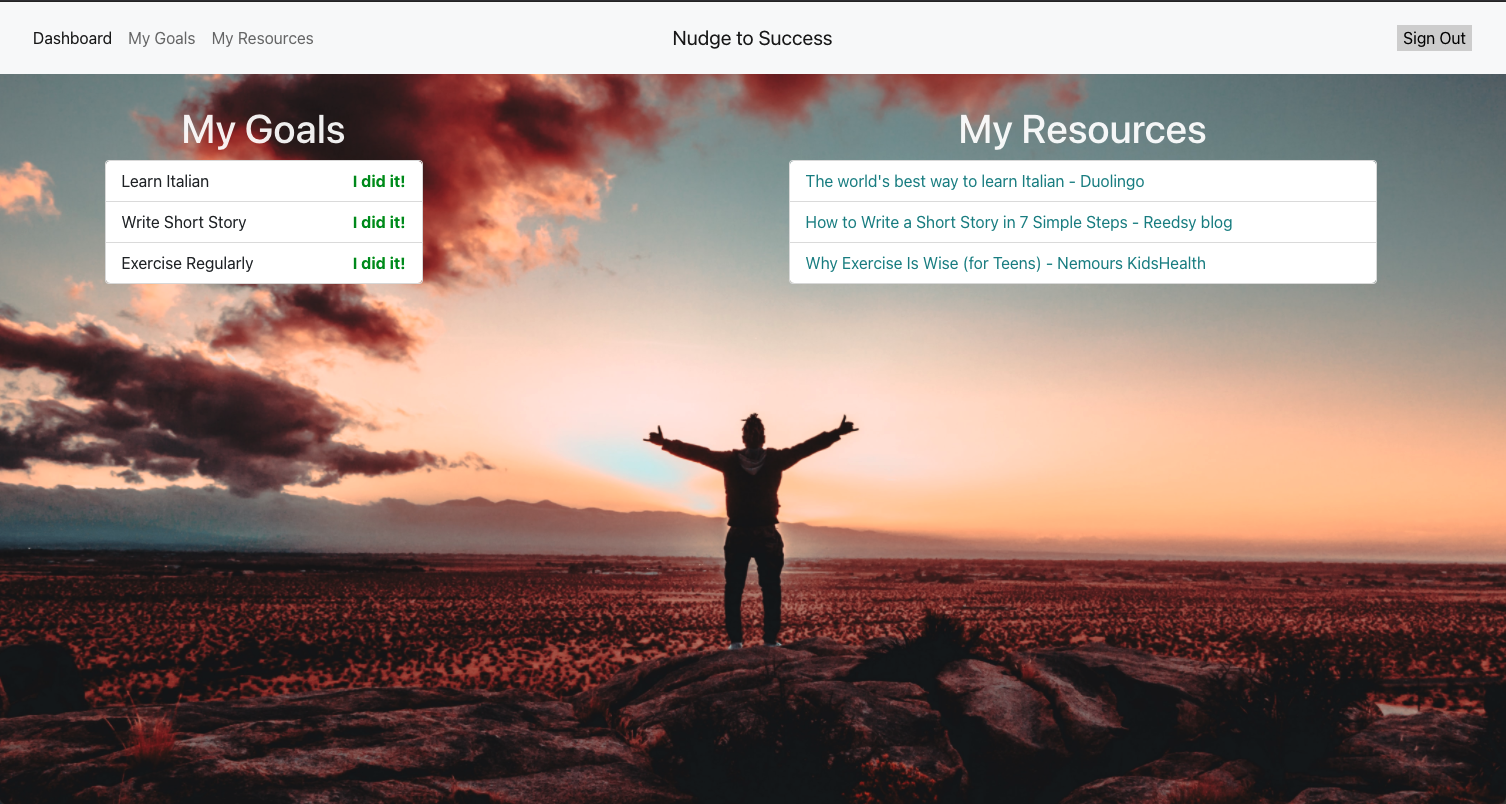
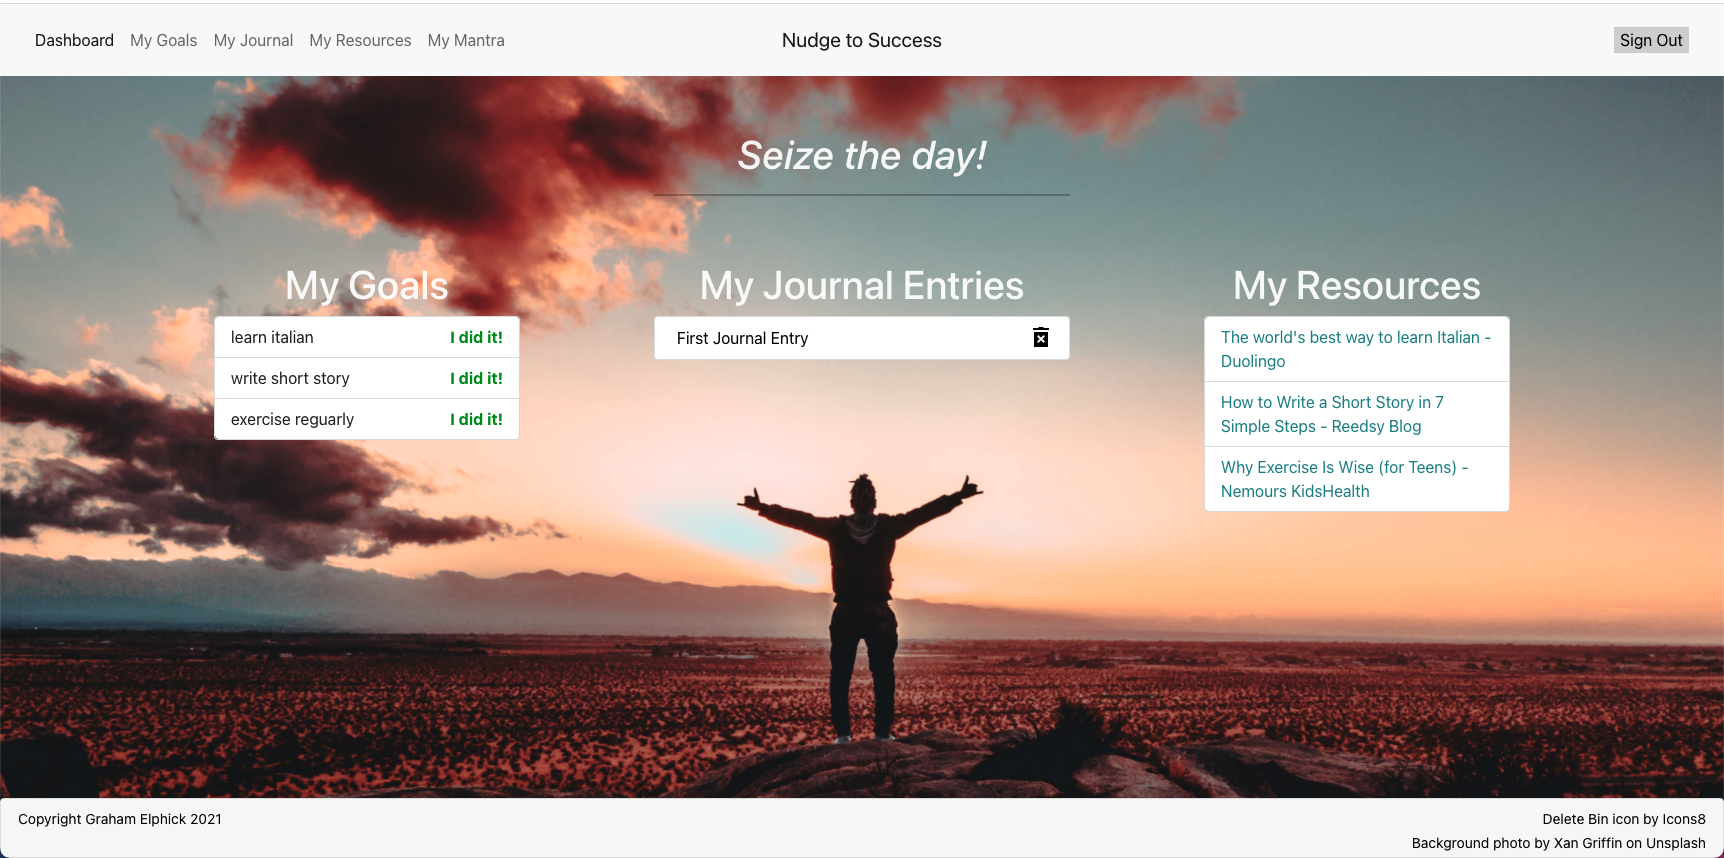
updated readme

diff --git a/README.md b/README.md
@@ -15,7 +15,7 @@
 
 
 ## Description
-Nudge to Success is a central, motivation hub, designed to help people achieve their goals. The application allows the user to enter their various goals and provides them with automatically-generated resources to kickstart their journey towards completing said goals.
+Nudge to Success is a central, motivation hub, designed to help people achieve their goals. The application allows the user to enter their various goals and provides them with automatically-generated resources to kickstart their journey towards completing said goals. The user can also keep a virtual journal and edit the mantra appearing on their dashboard.
 
 ## Deployed App
 https://self-improvement-motivator.herokuapp.com/
@@ -23,6 +23,9 @@ https://self-improvement-motivator.herokuapp.com/
 ## Screenshots
 <img src="./app-screenshots/login.png" alt="Login page">
 <img src="./app-screenshots/goals.png" alt="My Goals page">
+<img src="./app-screenshots/journal.png" alt="My Journal page">
+<img src="./app-screenshots/journal-modal.png" alt="Journal entry pop-up">
+<img src="./app-screenshots/mantra.png" alt="My Mantra page">
 <img src="./app-screenshots/dashboard.png" alt="Dashboard page">
 <img src="./app-screenshots/confetti.png" alt="Confetti celebration from achieving a goal">
 
